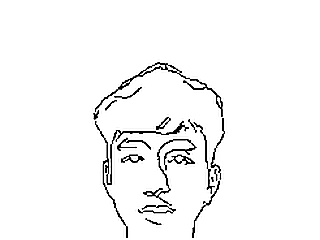
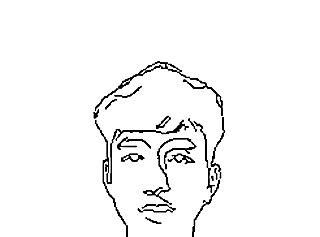
add testing version, extract frame

diff --git a/EvaluateResult/extract_frame.py b/EvaluateResult/extract_frame.py
@@ -21,7 +21,7 @@ def resize_with_padding(image, target_size=(320, 240), fill_color=(255, 255, 255
     new_image = Image.new("RGB", target_size, fill_color) # Tạo ảnh nền trắng 320x240
     offset = ((target_size[0] - new_width) // 2, (target_size[1] - new_height) // 2) # Căn giữa ảnh nhỏ lên nền
     new_image.paste(resized_image, offset) # Ghép vào giữa
-    return new_image
+    return resized_image
 
 def preprocessing(img_name):
 # # === Xử lý từng ảnh ===
@@ -70,11 +70,11 @@ def preprocessing(img_name):
         resized = resize_with_padding(pil_image, target_size=(320, 240))
         resized = resized.convert("RGB")
 
-        # Làm sắc nét ảnh bằng PIL
-        resized = resized.filter(ImageFilter.UnsharpMask(radius=2, percent=150, threshold=3))
+        # # Làm sắc nét ảnh bằng PIL
+        # resized = resized.filter(ImageFilter.UnsharpMask(radius=2, percent=150, threshold=3))
 
         inside_path = os.path.join(base_dir, output_inside_dir, frame_filename)
-        resized.save(inside_path, dpi=(600, 600), quality=100, progressive=True)
+        resized.save(inside_path, dpi=(1280, 960), quality=100, progressive=True)
 
         print(f"✅ OK: {os.path.basename(full_path)} → xử lý thành công")
         return None

diff --git a/serialWithUI.py b/serialWithUI.py
@@ -364,6 +364,9 @@ class App:
         self.gcode_file_path = None
         self.gcode_path_var = tk.StringVar(value="Chưa chọn file G-code")
         self.start_recv_thread()
+        self.ok_received = False
+        self.done_queue = queue.Queue()
+        self.ok_queue = queue.Queue()
 
         self.build_gui()
         self.start_serial()
@@ -692,7 +695,7 @@ if __name__ == "__main__":
     os.environ['TF_CPP_MIN_LOG_LEVEL'] = '3'  # 0 = all logs, 1 = filter INFO, 2 = filter WARNING, 3 = filter ERROR
     os.environ['TF_ENABLE_ONEDNN_OPTS'] = '0'
     global_var.image_name = ""
-    global_var.index_capture_image = 1
+    global_var.index_capture_image = 2
     global_var.is_capture = False
     global_var.is_finish_covert_image = False
     global_var.is_choose_image = False

diff --git a/RobotGcodeGen/RobotGcodeGen.py b/RobotGcodeGen/RobotGcodeGen.py
@@ -26,7 +26,6 @@ STEP_CONVERT = {
     'X': 0.355555,
     'Y': 0.355555,
     'Z': 0.216666,
-    'A': 0.133333,
 }
 def compute_gcode_line(cmd, x, y, z, q0=None, max_attempts=10):
     # Mục tiêu: Y luôn là [0, -1, 0]
